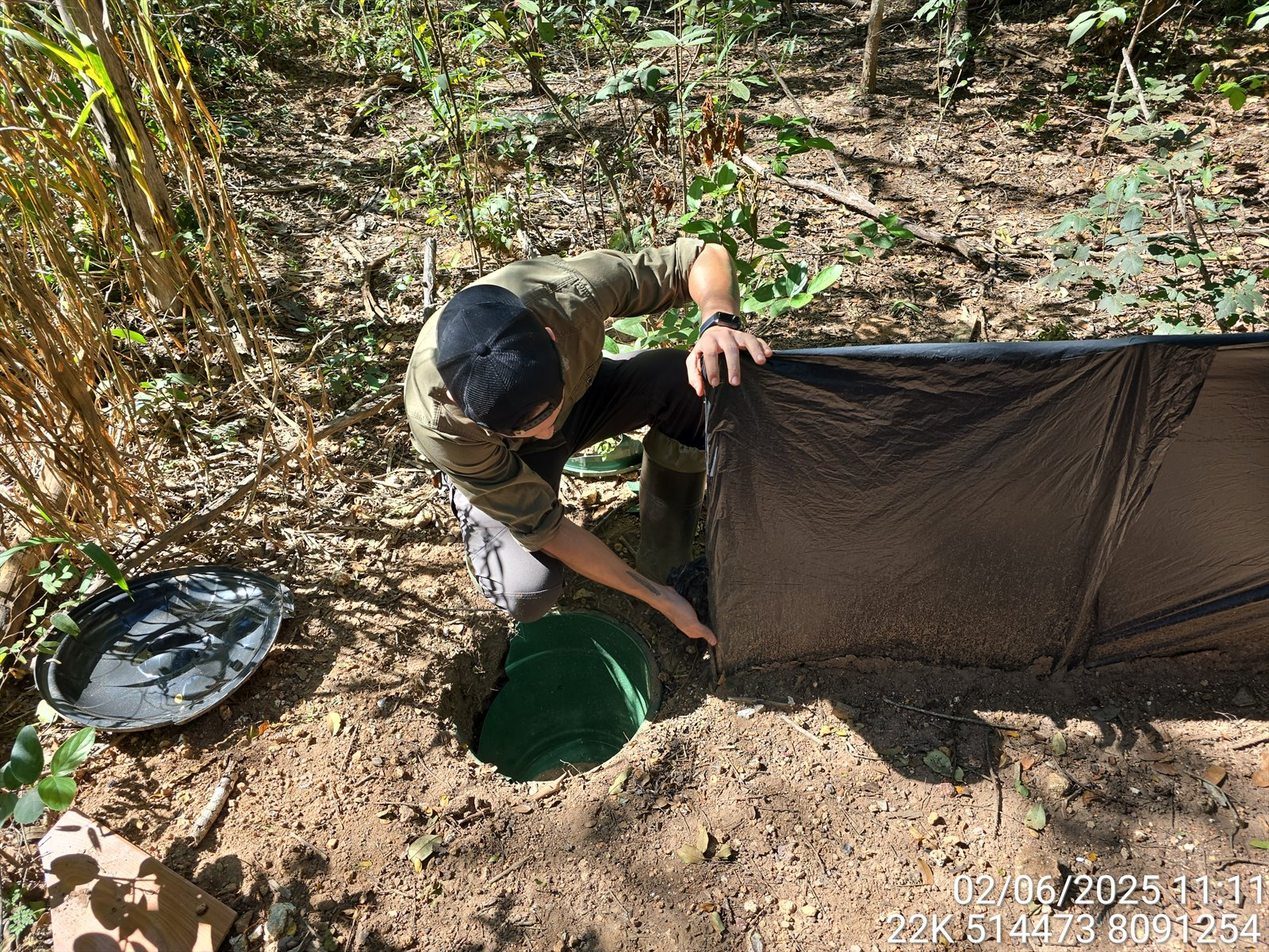
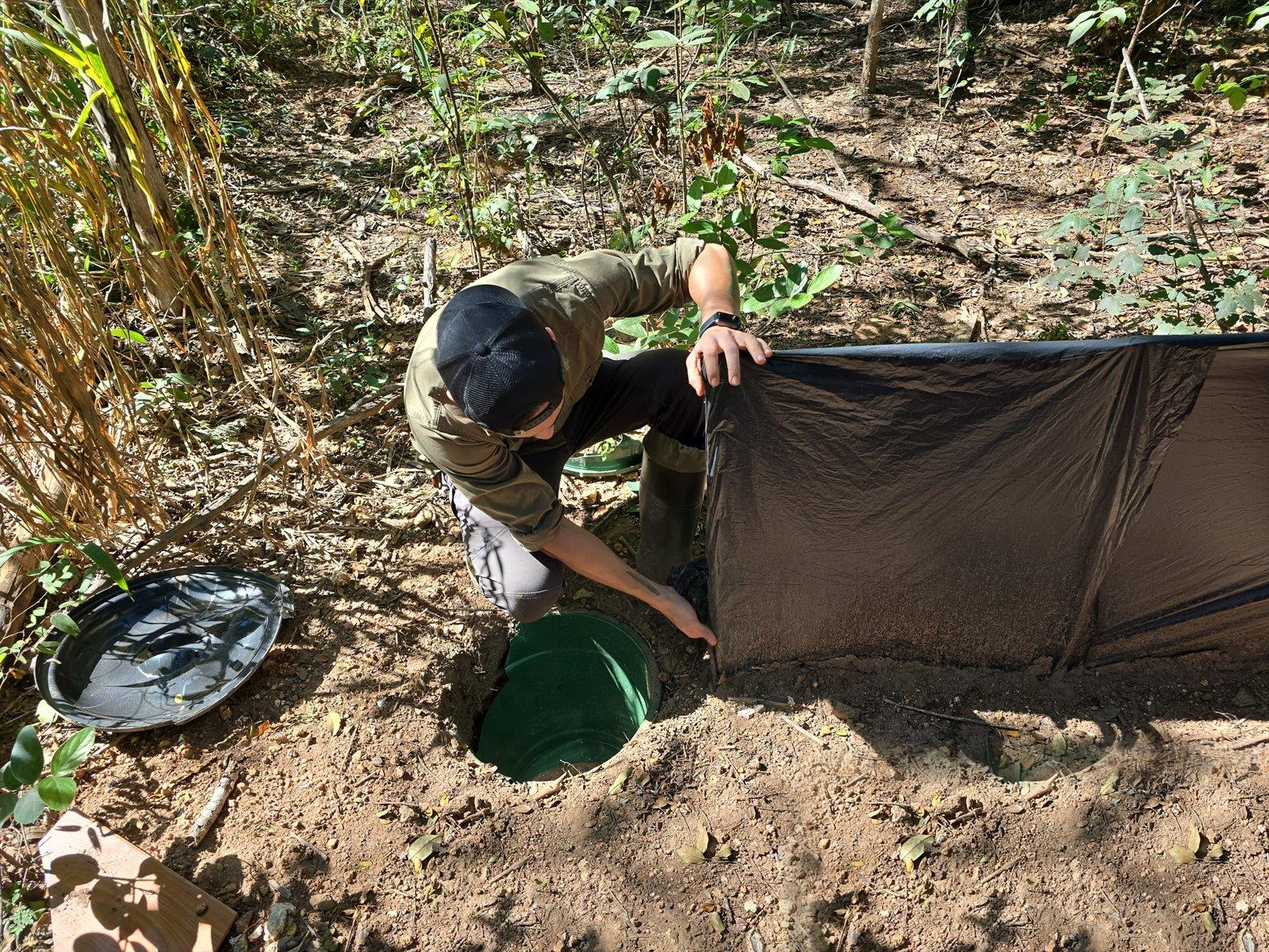
feat(fieldwork): remove all timestamp watermarks from field photos and set 1:1 square desktop cards with 15% top framing (v13.0)

Changed region(s): [[0.5938, 0.7708, 1.0, 1.0]]

diff --git a/index.html b/index.html
@@ -23,7 +23,7 @@
     <link rel="stylesheet" href="https://cdnjs.cloudflare.com/ajax/libs/font-awesome/6.4.0/css/all.min.css">
         <!-- Leaflet Map CSS -->
     <link rel="stylesheet" href="https://unpkg.com/leaflet@1.9.4/dist/leaflet.css" crossorigin=""/>
-    <link rel="stylesheet" href="style.css?v=12.9">
+    <link rel="stylesheet" href="style.css?v=13.0">
     <noscript>
         <style>
             .fade-in { opacity: 1 !important; transform: none !important; }
@@ -1280,9 +1280,9 @@
                     </figure>
 
                     <!-- 8. Resgate Serpente EcosBrasil -->
-                    <figure class="field-photo-card" data-category="herpeto" data-full="assets/field/field-resgate-serpente-ecosbrasil.jpg?v=12.7" data-caption="&lt;strong&gt;Amostragem Noturna em Tr&ecirc;s Lagoas - MS&lt;/strong&gt; &mdash; Encontro e documenta&ccedil;&atilde;o de cobra-cip&oacute; (Chironius quadricarinatus) durante amostragem e busca ativa noturna de herpetofauna em Tr&ecirc;s Lagoas, Mato Grosso do Sul." data-caption-en="&lt;strong&gt;Nocturnal Survey in Tr&ecirc;s Lagoas, MS&lt;/strong&gt; &mdash; Encounter and documentation of a whip snake (Chironius quadricarinatus) during active nocturnal herpetofauna survey in Tr&ecirc;s Lagoas, Mato Grosso do Sul.">
+                    <figure class="field-photo-card" data-category="herpeto" data-full="assets/field/field-resgate-serpente-ecosbrasil.jpg?v=13.0" data-caption="&lt;strong&gt;Amostragem Noturna em Tr&ecirc;s Lagoas - MS&lt;/strong&gt; &mdash; Encontro e documenta&ccedil;&atilde;o de cobra-cip&oacute; (Chironius quadricarinatus) durante amostragem e busca ativa noturna de herpetofauna em Tr&ecirc;s Lagoas, Mato Grosso do Sul." data-caption-en="&lt;strong&gt;Nocturnal Survey in Tr&ecirc;s Lagoas, MS&lt;/strong&gt; &mdash; Encounter and documentation of a whip snake (Chironius quadricarinatus) during active nocturnal herpetofauna survey in Tr&ecirc;s Lagoas, Mato Grosso do Sul.">
                         <div class="field-photo-img-wrap">
-                            <img src="assets/field/field-resgate-serpente-ecosbrasil.jpg?v=12.7" alt="Lucas Aosf em amostragem noturna com Chironius quadricarinatus em Tres Lagoas MS">
+                            <img src="assets/field/field-resgate-serpente-ecosbrasil.jpg?v=13.0" alt="Lucas Aosf em amostragem noturna com Chironius quadricarinatus em Tres Lagoas MS">
                             <div class="field-photo-zoom-icon"><i class="fa-solid fa-magnifying-glass-plus"></i></div>
                         </div>
                         <figcaption>
@@ -1296,9 +1296,9 @@
                     </figure>
 
                     <!-- 9. Anilhamento Cientifico CEMAVE - Catharus fuscescens -->
-                    <figure class="field-photo-card" data-category="ornito-masto" data-full="assets/field/field-anilhamento-ave.jpg" data-caption="&lt;strong&gt;Anilhamento Cient&iacute;fico CEMAVE/ICMBio &mdash; &lt;em&gt;Catharus fuscescens&lt;/em&gt;&lt;/strong&gt; &mdash; Conten&ccedil;&atilde;o padronizada de sabi&aacute;-norte-americano (&lt;em&gt;Catharus fuscescens&lt;/em&gt;) com a 'pega de anilhador' (bander's grip) para anilhamento oficial, biometria e an&aacute;lise de muda." data-caption-en="&lt;strong&gt;CEMAVE/ICMBio Scientific Bird Banding &mdash; &lt;em&gt;Catharus fuscescens&lt;/em&gt;&lt;/strong&gt; &mdash; Standard restraint of a Veery (&lt;em&gt;Catharus fuscescens&lt;/em&gt;) using the bander's grip for scientific banding, biometrics, and molt scoring.">
+                    <figure class="field-photo-card" data-category="ornito-masto" data-full="assets/field/field-anilhamento-ave.jpg?v=13.0" data-caption="&lt;strong&gt;Anilhamento Cient&iacute;fico CEMAVE/ICMBio &mdash; &lt;em&gt;Catharus fuscescens&lt;/em&gt;&lt;/strong&gt; &mdash; Conten&ccedil;&atilde;o padronizada de sabi&aacute;-norte-americano (&lt;em&gt;Catharus fuscescens&lt;/em&gt;) com a 'pega de anilhador' (bander's grip) para anilhamento oficial, biometria e an&aacute;lise de muda." data-caption-en="&lt;strong&gt;CEMAVE/ICMBio Scientific Bird Banding &mdash; &lt;em&gt;Catharus fuscescens&lt;/em&gt;&lt;/strong&gt; &mdash; Standard restraint of a Veery (&lt;em&gt;Catharus fuscescens&lt;/em&gt;) using the bander's grip for scientific banding, biometrics, and molt scoring.">
                         <div class="field-photo-img-wrap">
-                            <img src="assets/field/field-anilhamento-ave.jpg" alt="Lucas Aosf em anilhamento cientifico de sabia-norte-americano (Catharus fuscescens) com pega de anilhador">
+                            <img src="assets/field/field-anilhamento-ave.jpg?v=13.0" alt="Lucas Aosf em anilhamento cientifico de sabia-norte-americano (Catharus fuscescens) com pega de anilhador">
                             <div class="field-photo-zoom-icon"><i class="fa-solid fa-magnifying-glass-plus"></i></div>
                         </div>
                         <figcaption>
@@ -1392,9 +1392,9 @@
                     </figure>
 
                     <!-- 15. Pitfall Solar Janaúba -->
-                    <figure class="field-photo-card" data-category="supervisao" data-full="assets/field/field-pitfall-solar-janauba.jpg" data-caption="&lt;strong&gt;Instalação de Pitfall Traps (Armadilhas de Queda)&lt;/strong&gt; &mdash; Montagem de linhas de baldes com cerca-guia plástica no Complexo Solar Janaúba/MG para licenciamento ambiental (Arcadis)." data-caption-en="&lt;strong&gt;Pitfall Trap Installation (Drift Fence &amp; Buckets)&lt;/strong&gt; &mdash; Setting up pitfall trap lines with drift fences at the Janaúba Solar Complex in MG for environmental licensing (Arcadis).">
+                    <figure class="field-photo-card" data-category="supervisao" data-full="assets/field/field-pitfall-solar-janauba.jpg?v=13.0" data-caption="&lt;strong&gt;Instalação de Pitfall Traps (Armadilhas de Queda)&lt;/strong&gt; &mdash; Montagem de linhas de baldes com cerca-guia plástica no Complexo Solar Janaúba/MG para licenciamento ambiental (Arcadis)." data-caption-en="&lt;strong&gt;Pitfall Trap Installation (Drift Fence &amp; Buckets)&lt;/strong&gt; &mdash; Setting up pitfall trap lines with drift fences at the Janaúba Solar Complex in MG for environmental licensing (Arcadis).">
                         <div class="field-photo-img-wrap">
-                            <img src="assets/field/field-pitfall-solar-janauba.jpg" alt="Lucas Aosf instalando pitfall traps em Janaúba MG">
+                            <img src="assets/field/field-pitfall-solar-janauba.jpg?v=13.0" alt="Lucas Aosf instalando pitfall traps em Janaúba MG">
                             <div class="field-photo-zoom-icon"><i class="fa-solid fa-magnifying-glass-plus"></i></div>
                         </div>
                         <figcaption>
@@ -1408,9 +1408,9 @@
                     </figure>
 
                     <!-- 16. Supervisão Supressão -->
-                    <figure class="field-photo-card" data-category="supervisao" data-full="assets/field/field-supervisao-supressao.jpg" data-caption="&lt;strong&gt;Salvamento e Manejo de Fauna em Campo&lt;/strong&gt; &mdash; Prospec&ccedil;&atilde;o e salvamento de fauna silvestre com gancho herpetol&oacute;gico e coldre t&aacute;tico para conten&ccedil;&atilde;o e resgate." data-caption-en="&lt;strong&gt;Wildlife Rescue &amp; Field Handling&lt;/strong&gt; &mdash; Wildlife prospecting and rescue using herpetological hook and tactical field gear.">
+                    <figure class="field-photo-card" data-category="supervisao" data-full="assets/field/field-supervisao-supressao.jpg?v=13.0" data-caption="&lt;strong&gt;Salvamento e Manejo de Fauna em Campo&lt;/strong&gt; &mdash; Prospec&ccedil;&atilde;o e salvamento de fauna silvestre com gancho herpetol&oacute;gico e coldre t&aacute;tico para conten&ccedil;&atilde;o e resgate." data-caption-en="&lt;strong&gt;Wildlife Rescue &amp; Field Handling&lt;/strong&gt; &mdash; Wildlife prospecting and rescue using herpetological hook and tactical field gear.">
                         <div class="field-photo-img-wrap">
-                            <img src="assets/field/field-supervisao-supressao.jpg" alt="Lucas Aosf em salvamento e manejo de fauna em campo">
+                            <img src="assets/field/field-supervisao-supressao.jpg?v=13.0" alt="Lucas Aosf em salvamento e manejo de fauna em campo">
                             <div class="field-photo-zoom-icon"><i class="fa-solid fa-magnifying-glass-plus"></i></div>
                         </div>
                         <figcaption>
@@ -1424,9 +1424,9 @@
                     </figure>
 
                     <!-- 17. Camera Trap SP -->
-                    <figure class="field-photo-card" data-category="supervisao" data-full="assets/field/field-camera-trap-sp.jpg" data-caption="&lt;strong&gt;Instalação de Camera Trap (Armadilha Fotográfica)&lt;/strong&gt; &mdash; Fixação e calibração de armadilha fotográfica com sensor infravermelho em tronco arbóreo para monitoramento de mamíferos em SP." data-caption-en="&lt;strong&gt;Camera Trap Installation&lt;/strong&gt; &mdash; Mounting and calibrating motion/infrared sensor camera traps on tree trunks for medium/large mammal monitoring in SP.">
+                    <figure class="field-photo-card" data-category="supervisao" data-full="assets/field/field-camera-trap-sp.jpg?v=13.0" data-caption="&lt;strong&gt;Instalação de Camera Trap (Armadilha Fotográfica)&lt;/strong&gt; &mdash; Fixação e calibração de armadilha fotográfica com sensor infravermelho em tronco arbóreo para monitoramento de mamíferos em SP." data-caption-en="&lt;strong&gt;Camera Trap Installation&lt;/strong&gt; &mdash; Mounting and calibrating motion/infrared sensor camera traps on tree trunks for medium/large mammal monitoring in SP.">
                         <div class="field-photo-img-wrap">
-                            <img src="assets/field/field-camera-trap-sp.jpg" alt="Lucas Aosf instalando camera trap em árvore">
+                            <img src="assets/field/field-camera-trap-sp.jpg?v=13.0" alt="Lucas Aosf instalando camera trap em árvore">
                             <div class="field-photo-zoom-icon"><i class="fa-solid fa-magnifying-glass-plus"></i></div>
                         </div>
                         <figcaption>
@@ -1720,7 +1720,7 @@
         <!-- Leaflet Map JS -->
     <script src="https://unpkg.com/leaflet@1.9.4/dist/leaflet.js" crossorigin=""></script>
     <script src="brazil-states.js?v=12.1"></script>
-    <script src="script.js?v=12.9"></script>
+    <script src="script.js?v=13.0"></script>
 </body>
 
 </html>

diff --git a/style.css b/style.css
@@ -4046,7 +4046,7 @@ section.fieldwork-section {
     width: 100%;
     height: 100%;
     object-fit: cover;
-    object-position: center 20%;
+    object-position: center 15%;
     display: block;
     transition: transform 0.4s ease;
 }
